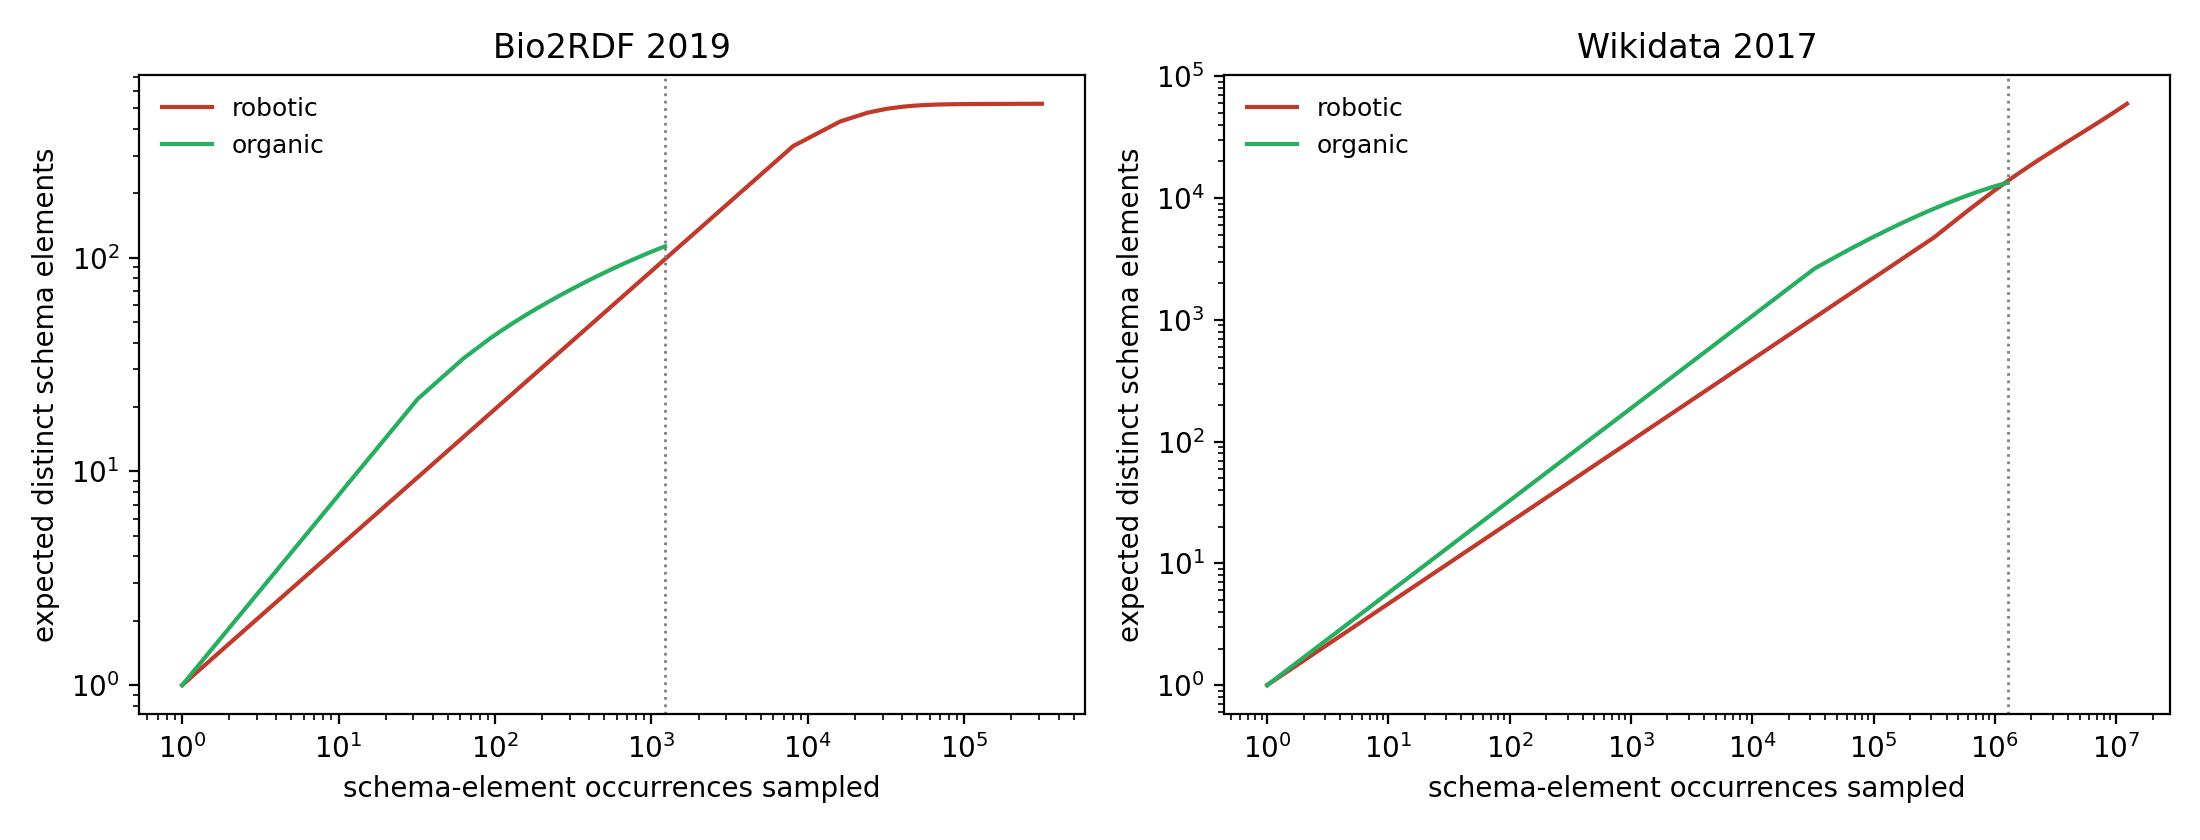
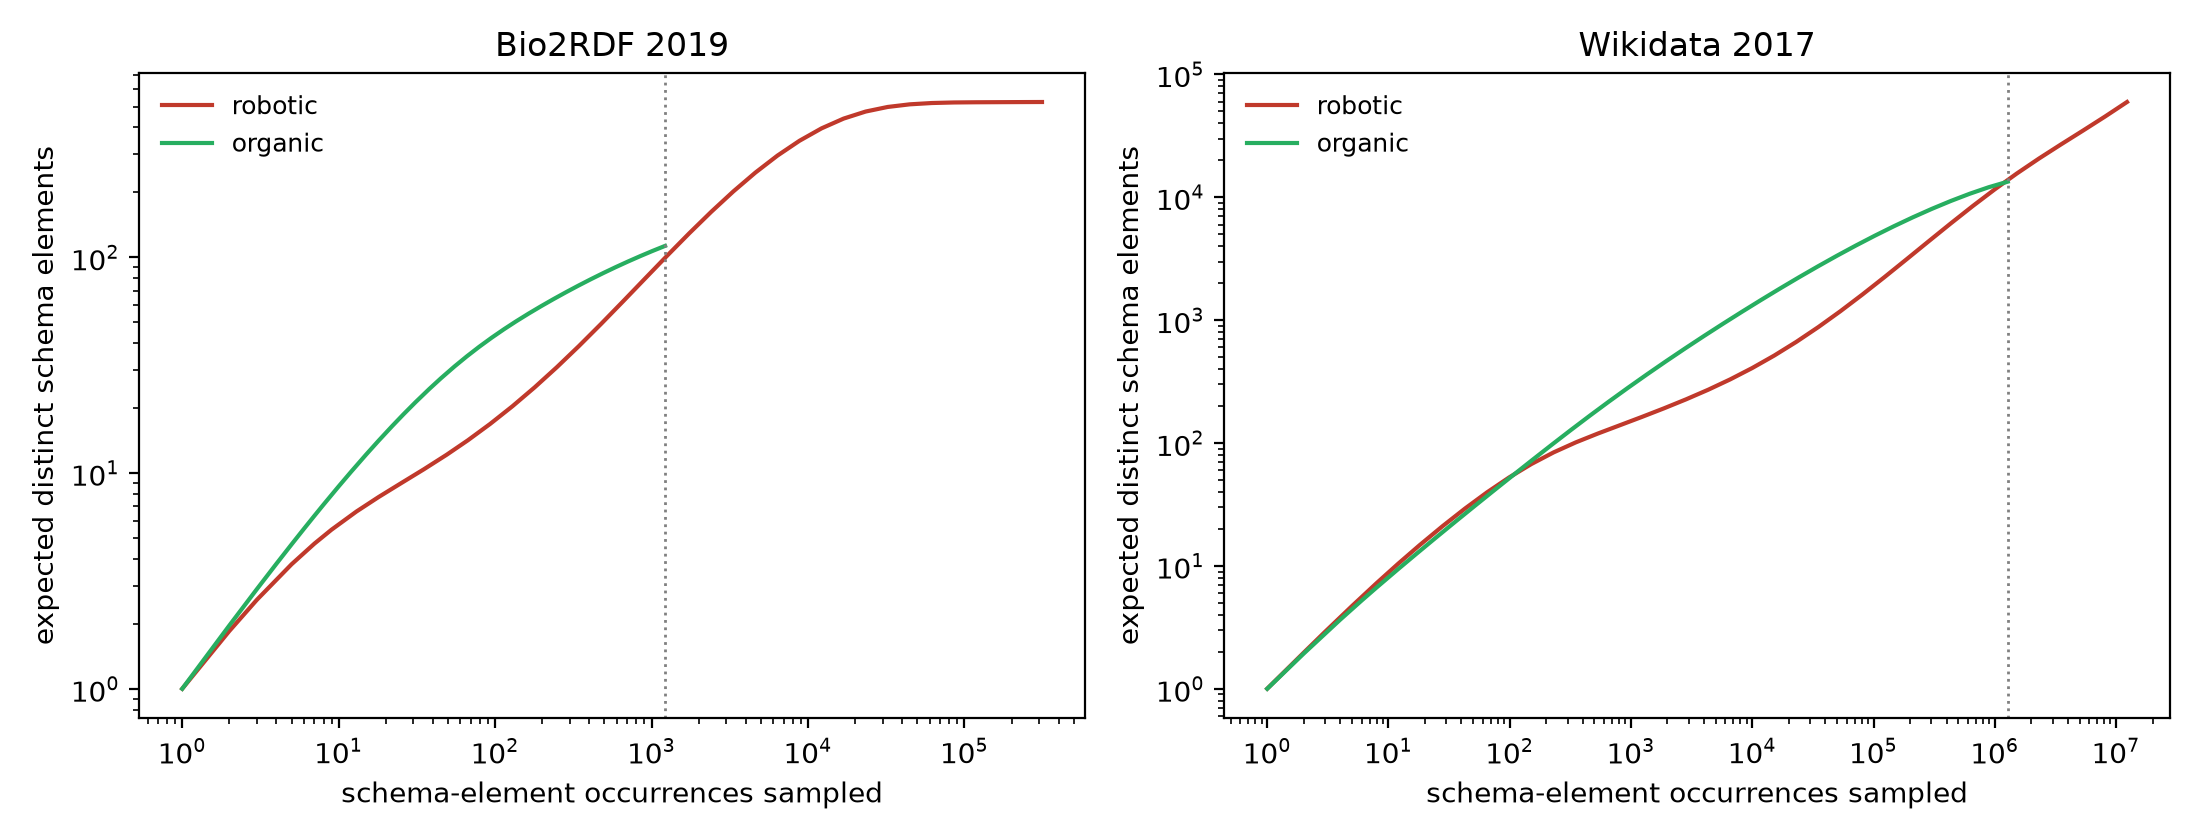
Manuscript + code: address comment 4 (rarefaction wording, caption, denominators)
Softened the "neither/removes... in both KGs" overclaim to match the actual
per-KG equal-effort ratios (Bio2RDF 0.88x, Wikidata 1.03x with CI excluding 1).
Fixed the rarefaction figure caption, which asserted a single "organic is
richer" direction that doesn't hold for Wikidata at the common effort (Table
shows robotic slightly ahead there). Switched Figure 5's sampling grid from
linear to log-spaced so the low-effort region is actually resolved, which
revealed the true shape for Wikidata: the curves cross twice, with organic
substantially richer across most of the shared range, not just "at lower
effort" as previously stated; wording corrected accordingly. Fixed the stale
541/545 and 104314/104286 TSE denominators in wd_rarefaction_ci.py and
rarefaction_size_control.py (541 and 104286 are the correct, already-published
values; the fix only restores the scripts' ability to reproduce them).
Documented a numpy-version-dependent Monte-Carlo CI drift found while
verifying the fix (conclusion unaffected; manuscript CI left as originally
published, per decision). Confirmed both scripts compute their reported
values directly at the exact common sampling effort, independent of the
40-point grid used only for the figure.

diff --git a/manuscript/texsupport.iospress-sw-master/main.tex b/manuscript/texsupport.iospress-sw-master/main.tex
@@ -565,14 +565,14 @@ These results highlight a notable difference in schema coverage between robotic 
 The organic and robotic logs differ substantially in size (Table~\ref{tab:2}), which raises the question of whether the difference in schema coverage reported in Table~\ref{tab:5} is partly due to unequal sampling. To examine this, we apply \emph{individual-based rarefaction} \cite{hurlbert1971nonconcept}. Since queries can reference different numbers of schema elements, we control for sampling effort using schema-element occurrences rather than the number of queries. An occurrence is one reference to one schema element by one unique query. If the same element is referenced multiple times within a query, it is counted only once, and repeated executions of an identical query are not counted again. This gives 1{,}220 occurrences for \emph{Bio2RDF-organic-2019} and 1{,}279{,}731 for the Wikidata organic log. For each larger robotic log, we estimate the number of distinct schema elements expected from a random sub-sample containing the same number of occurrences as the corresponding organic log.
 
 
-Figure~\ref{fig:rarefaction} shows the resulting rarefaction curves, and Table~\ref{tab:rarefaction} presents the comparison at the maximum common sampling effort, corresponding to the size of the organic log. One limitation should be considered. Individual-based rarefaction assumes that element occurrences are independent, whereas query traffic may contain similar queries submitted by the same client. Using deduplicated unique queries reduces this effect but does not eliminate it completely. Therefore, the equal-effort values should be interpreted as estimates. Despite this limitation, the conclusion is consistent across both KGs: neither shows a robotic breadth advantage at equal effort ($0.88\times$ for Bio2RDF, $1.03\times$ for Wikidata).
+Figure~\ref{fig:rarefaction} shows the resulting rarefaction curves, and Table~\ref{tab:rarefaction} presents the comparison at the maximum common sampling effort, corresponding to the size of the organic log. One limitation should be considered. Individual-based rarefaction assumes that element occurrences are independent, whereas query traffic may contain similar queries submitted by the same client. Using deduplicated unique queries reduces this effect but does not eliminate it completely. Therefore, the equal-effort values should be interpreted as estimates. Despite this limitation, the pattern is consistent across both KGs in direction if not in degree: the large raw robotic advantage in Table~\ref{tab:5} is substantially reduced at equal effort in both cases, though not removed identically — Bio2RDF's robotic log shows no advantage at equal effort ($0.88\times$), while Wikidata's robotic log retains a small residual advantage ($1.03\times$).
 
 
 
 \begin{figure}
     \centering
     \includegraphics[width=0.95\textwidth]{rarefaction.png}
-    \caption{Individual-based rarefaction curves (expected distinct schema elements vs.\ schema-element occurrences sampled, both axes log-scaled) for organic (green) and robotic (red) logs. The dotted line marks the maximum common sampling effort for the organic and robotic logs, corresponding to the size of the organic log. In both KGs the two curves stay close over the shared sampling range, with organic queries showing slightly greater richness per occurrence at the common effort.}
+    \caption{Individual-based rarefaction curves (expected distinct schema elements vs.\ schema-element occurrences sampled, both axes log-scaled) for organic (green) and robotic (red) logs. The dotted line marks the maximum common sampling effort for the organic and robotic logs, corresponding to the size of the organic log. In Bio2RDF the two curves stay close across the shared sampling range, with the organic log slightly richer at the common effort. In Wikidata, organic richness exceeds robotic's across most of the shared range; the curves converge and swap order only near the common effort, where the rarefied robotic log becomes very slightly richer (Table~\ref{tab:rarefaction}).}
     \label{fig:rarefaction}
 \end{figure}
 
@@ -590,7 +590,7 @@ Wikidata 2017 ($n=1{,}279{,}731$ occ.) & 13,394 (12.8\%) & $\approx$13,846 (13.3
 \end{tabular}
 \end{table}
 
-Controlling for sampling effort removes the apparent robotic advantage in both KGs. For \textbf{Bio2RDF}, at the maximum common sampling effort the robotic log recovers \emph{no} more distinct schema elements than the organic log (99 vs.\ 113; 18.4\% vs.\ 20.9\%). A Monte-Carlo subsampling bootstrap (400 replicates, robotic rarefied to the organic effort of 1{,}220 occurrences) puts the equal-effort ratio at \textbf{0.88$\times$, 95\% CI [0.75, 1.02]}, an interval that contains~1: the two query types reach comparable breadth once effort is equalized, and the large raw gap in Table~\ref{tab:5} (97\% vs.\ 21\%) is a volume effect. For \textbf{Wikidata}, the picture reverses: at the maximum common sampling effort, the same bootstrap gives a ratio of only \textbf{1.03$\times$, 95\% CI [1.02, 1.05]} (robotic 13.3\% vs.\ organic 12.8\% of TSE), and at \emph{lower} effort organic queries are actually richer per occurrence (Figure~\ref{fig:rarefaction}, right). The raw coverage gap in Table~\ref{tab:5} (57\% vs.\ 13\%, i.e.\ $4.4\times$) therefore collapses to a $\sim$3\% difference once effort is equalized, which is consistent with that gap being largely attributable to robotic logs being two orders of magnitude larger rather than to broader robotic interest. (With $n\,{=}\,1.28$M the tiny residual is statistically distinguishable from 1.0, but its magnitude, 3\% vs.\ Bio2RDF's 79\%, is negligible.)
+Controlling for sampling effort substantially reduces the apparent robotic advantage in both KGs, though it is fully removed only for Bio2RDF. For \textbf{Bio2RDF}, at the maximum common sampling effort the robotic log recovers \emph{no} more distinct schema elements than the organic log (99 vs.\ 113; 18.4\% vs.\ 20.9\%). A Monte-Carlo subsampling bootstrap (400 replicates, robotic rarefied to the organic effort of 1{,}220 occurrences) puts the equal-effort ratio at \textbf{0.88$\times$, 95\% CI [0.75, 1.02]}, an interval that contains~1: the two query types reach comparable breadth once effort is equalized, and the large raw gap in Table~\ref{tab:5} (97\% vs.\ 21\%) is a volume effect. For \textbf{Wikidata}, the picture reverses: at the maximum common sampling effort, the same bootstrap gives a ratio of only \textbf{1.03$\times$, 95\% CI [1.02, 1.05]} (robotic 13.3\% vs.\ organic 12.8\% of TSE), and across most of the shared sampling range organic queries are substantially richer per occurrence, with the curves crossing again only in the final approach to the common effort (Figure~\ref{fig:rarefaction}, right). The raw coverage gap in Table~\ref{tab:5} (57\% vs.\ 13\%, i.e.\ $4.4\times$) therefore collapses to a $\sim$3\% difference once effort is equalized, which is consistent with that gap being largely attributable to robotic logs being two orders of magnitude larger rather than to broader robotic interest. (With $n\,{=}\,1.28$M the tiny residual is statistically distinguishable from 1.0, but its magnitude, 3\% vs.\ Bio2RDF's 79\%, is negligible.)
 
 This size dependence is reinforced by how concentrated each log is on once-seen elements (Table~\ref{tab:singletons}). Two thirds of the schema elements counted for \emph{Wikidata-robotic-2017} are used exactly once; removing these singletons (the elements most exposed to one-off or erroneous uses) drops its coverage from 57.1\% to 18.9\% and shrinks the robotic-to-organic coverage ratio from $4.4\times$ to $2.0\times$. By contrast, \emph{Bio2RDF-robotic-2019} has a single singleton: its breadth is exercised repeatedly and is robust. In practical terms, for the two logs analysed here, robotic ``coverage'' on Wikidata largely reflects query volume and a long tail of one-off references, whereas on Bio2RDF it reflects systematic, repeated traversal of the schema. 
 

diff --git a/KG-Usage-analysis/rarefaction_size_control.py b/KG-Usage-analysis/rarefaction_size_control.py
@@ -30,7 +30,7 @@ PAIRS = [
     ("Wikidata 2017",
      "Wikidata log2017kg2017_combined_schema_elements.csv",
      "Wikidata robotic log2017_kg2017_combined_schema_elements.csv",
-     104314),
+     104286),
 ]
 
 
@@ -81,7 +81,11 @@ def chao1(counts):
 
 def curve(counts, npts=40):
     N = int(counts.sum())
-    xs = np.unique(np.linspace(1, N, npts).astype(int))
+    # Log-spaced sample sizes: the figure's x-axis is log-scaled, and linearly
+    # spaced points would cluster almost entirely near N, leaving the low-effort
+    # region (where the manuscript discusses relative richness) resolved by only
+    # one or two points.
+    xs = np.unique(np.geomspace(1, N, npts).astype(int))
     ys = [hurlbert_expected_richness(counts, int(x)) for x in xs]
     return xs, np.array(ys)
 

diff --git a/KG-Usage-analysis/wd_rarefaction_ci.py b/KG-Usage-analysis/wd_rarefaction_ci.py
@@ -8,9 +8,9 @@ import os, csv, numpy as np
 DATA="generated-usage-metadata"
 PAIRS=[
  ("Bio2RDF 2019","Bio2RDF organic log2019KG2024_combined_schema_elements.csv",
-  "Bio2RDF robotic log2019_kg2024_combined_schema_elements.csv",545),
+  "Bio2RDF robotic log2019_kg2024_combined_schema_elements.csv",541),
  ("Wikidata 2017","Wikidata log2017kg2017_combined_schema_elements.csv",
-  "Wikidata robotic log2017_kg2017_combined_schema_elements.csv",104314),
+  "Wikidata robotic log2017_kg2017_combined_schema_elements.csv",104286),
 ]
 def load(fname):
     cs=[]

diff --git a/REPRODUCIBILITY.md b/REPRODUCIBILITY.md
@@ -82,6 +82,16 @@ corresponding script; both have silently gone stale after a numeric correction b
   `sparqljs`. `Schema-coverage-method/sparqljs-worker/` holds the worker sources.
 - **LaTeX**: TinyTeX suffices. `main.tex` uses `comment.sty`, which a default TinyTeX
   install lacks: `tlmgr install comment`.
+- **numpy version affects Monte-Carlo reproducibility despite a fixed seed.**
+  `wd_rarefaction_ci.py`'s bootstrap uses `numpy.random.Generator.choice(...,
+  replace=False)`, whose internal sampling algorithm has changed across numpy
+  releases; the same script, data, and seed (`20260612`) can therefore give
+  slightly different CIs on different numpy versions (verified: numpy 2.2.1
+  reproduces Bio2RDF's ratio and conclusion exactly but not its exact CI bounds
+  — 95% CI [0.73, 1.03] here vs. the published [0.75, 1.02] — while Wikidata's
+  much larger sample size happens to reproduce exactly). Neither CI is wrong;
+  a fixed seed alone does not guarantee bit-identical Monte-Carlo output across
+  environments for this method.
 
 ## 5. Note on the parallel workers
 
